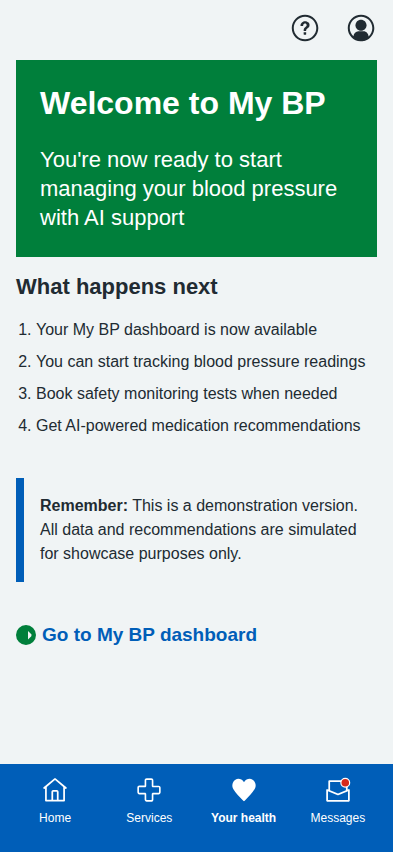
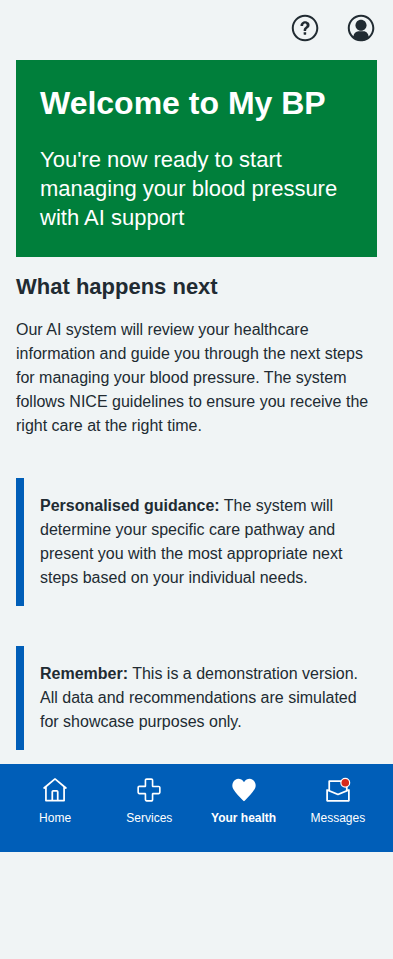
Update completion page to emphasize orchestrator-guided care pathways

diff --git a/prototype/v1/app/views/pages/mybp/onboarding/completed.html b/prototype/v1/app/views/pages/mybp/onboarding/completed.html
@@ -20,12 +20,12 @@
 
         <h2 class="nhsuk-heading-m">What happens next</h2>
 
-        <ol class="nhsuk-list nhsuk-list--number">
-          <li>Your My BP dashboard is now available</li>
-          <li>You can start tracking blood pressure readings</li>
-          <li>Book safety monitoring tests when needed</li>
-          <li>Get AI-powered medication recommendations</li>
-        </ol>
+        <p>Our AI system will review your healthcare information and guide you through the next steps for managing your blood pressure. The system follows NICE guidelines to ensure you receive the right care at the right time.</p>
+
+        <div class="nhsuk-inset-text">
+          <span class="nhsuk-u-visually-hidden">Information: </span>
+          <p><strong>Personalised guidance:</strong> The system will determine your specific care pathway and present you with the most appropriate next steps based on your individual needs.</p>
+        </div>
 
         <div class="nhsuk-inset-text">
           <span class="nhsuk-u-visually-hidden">Information: </span>

diff --git a/prototype/v1/screenshots/screenshots.md b/prototype/v1/screenshots/screenshots.md
@@ -30,7 +30,7 @@ Complete collection of iPhone-formatted screenshots (393x852 pixels) for all scr
 
 ### 6. Onboarding Complete (Consent Given)
 ![Onboarding Completed - Consent](onboarding-completed-consent.png)
-**Onboarding Complete - Consent Given** - Success screen when user consents, providing next steps and dashboard access.
+**Onboarding Complete - Consent Given** - Success screen when user consents, emphasizing the AI orchestrator's role in determining personalized care pathways following NICE guidelines. The system focuses on prescriptive, next-best-action guidance rather than offering multiple choices.
 
 ### 7. Onboarding Complete (Consent Declined)
 ![Onboarding Completed - No Consent](onboarding-completed-no-consent.png)
